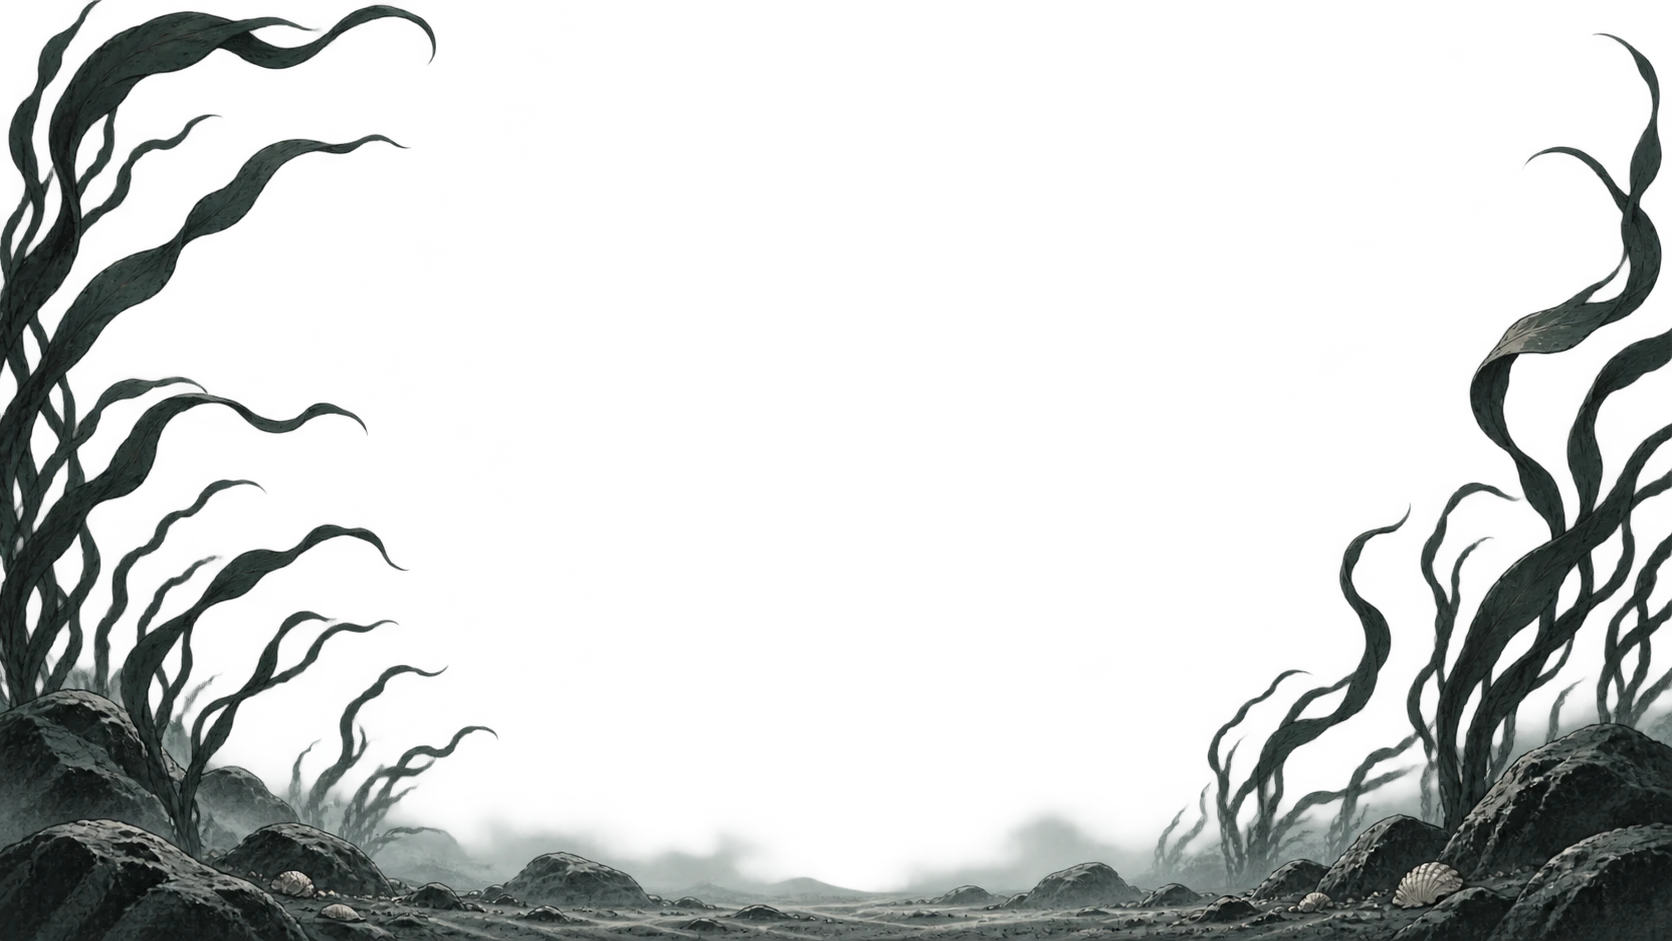
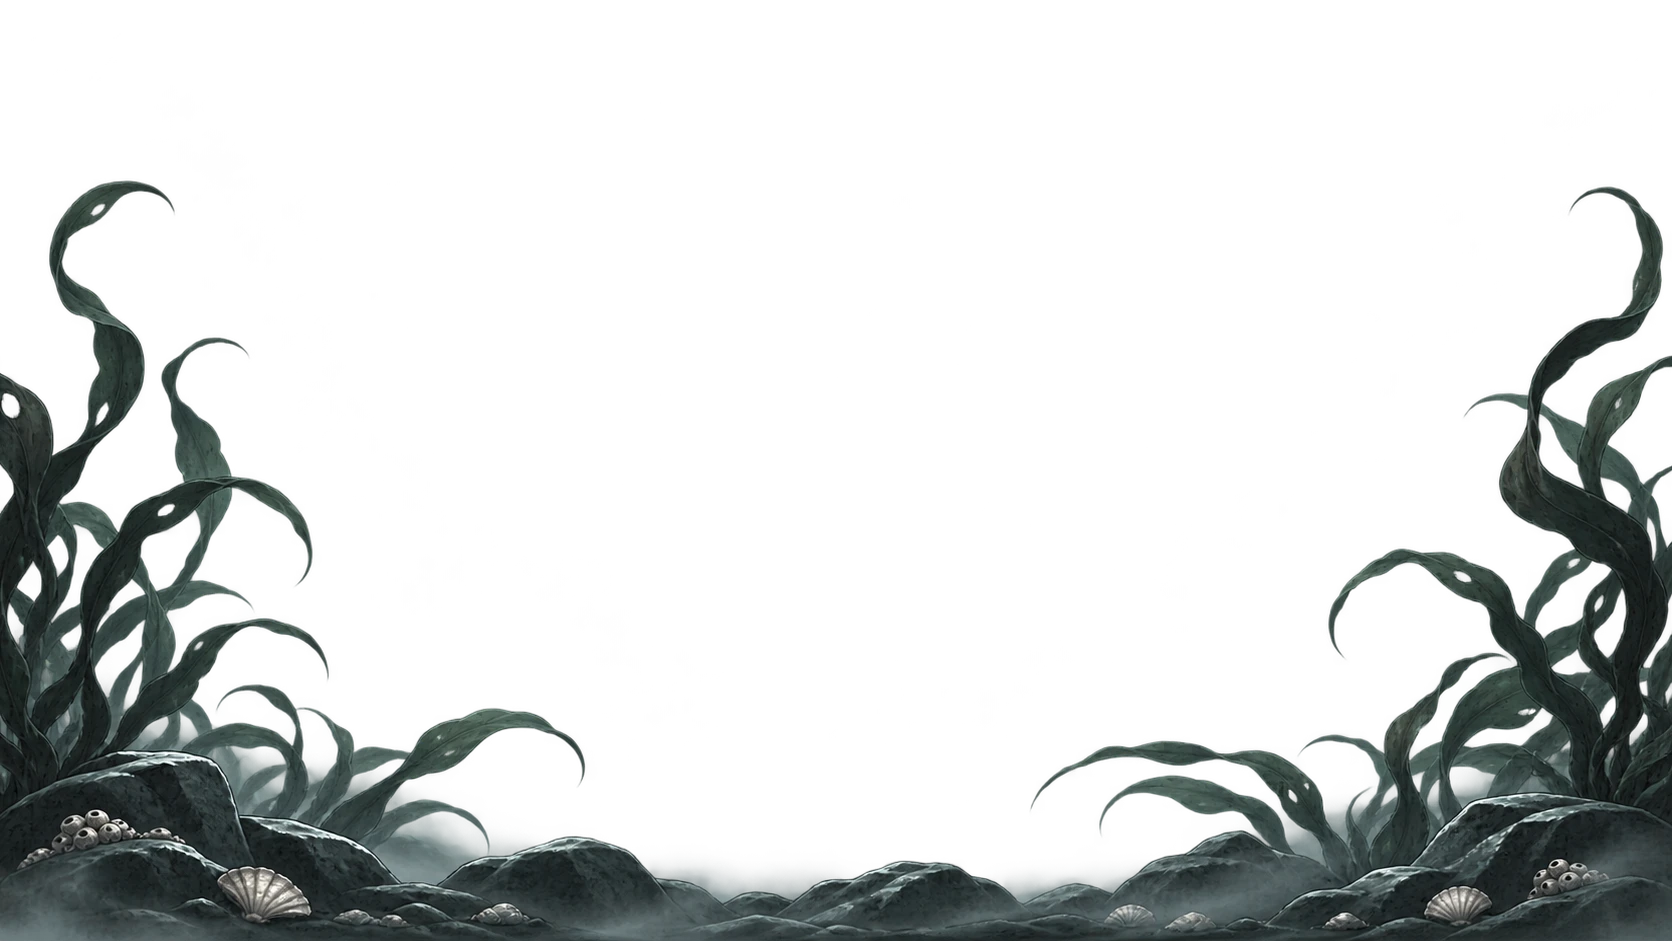
Swap in v2 mid/front background layers; recalibrate tier grading per layer
The v2 foreground kelp carries its own green tint, which hue-rotate() swung to
magenta/violet/red; it is now desaturated before the cast in Undertow,
Maelstrom and Abyssal. Brightness re-solved per layer against isolated-layer
measurements: all 12 layer/tier combinations within 0.2% of target.

Claude-Session: https://claude.ai/code/session_016UNRkeh3HLC3HuGtgN5Ain

diff --git a/frontend/src/style.css b/frontend/src/style.css
@@ -63,24 +63,26 @@ button:disabled { cursor: not-allowed; opacity: .45; filter: grayscale(.5); }
    medium, front subtle); reels, UI and characters are outside .background-scene.
    The art is ~90% greyscale and hue-rotate() alone leaves grey untouched, so a
    sepia() step first gives the greys a hue for hue-rotate() to swing to the target
-   cast (the same technique as the Abyssal reference preset). CSS filters only
+   cast (the same technique as the Abyssal reference preset). The foreground
+   kelp has its own green tint, so it is desaturated first in those tiers; otherwise
+   hue-rotate() swings that green to magenta/violet/red instead of the cast. CSS filters only
    approximate a LUT; for exact colour matching use per-tier LUTs/shaders. */
 .tier-riptide .bg-far   { filter: sepia(14%) saturate(115%) brightness(0.97); }
-.tier-riptide .bg-mid   { filter: sepia(10%) saturate(115%) brightness(0.987); }
-.tier-riptide .bg-front { filter: sepia(6%) saturate(115%) brightness(0.977); }
+.tier-riptide .bg-mid   { filter: sepia(10%) saturate(115%) brightness(0.979); }
+.tier-riptide .bg-front { filter: sepia(6%) saturate(115%) brightness(0.999); }
 
-.tier-undertow .bg-far   { filter: sepia(40%) hue-rotate(175deg) saturate(120%) brightness(0.8) contrast(1.08); }
-.tier-undertow .bg-mid   { filter: sepia(28%) hue-rotate(175deg) saturate(110%) brightness(0.896) contrast(1.08); }
-.tier-undertow .bg-front { filter: sepia(14%) hue-rotate(175deg) saturate(100%) brightness(0.91) contrast(1.08); }
+.tier-undertow .bg-far   { filter: sepia(40%) hue-rotate(175deg) saturate(120%) brightness(0.815) contrast(1.08); }
+.tier-undertow .bg-mid   { filter: sepia(28%) hue-rotate(175deg) saturate(110%) brightness(0.862) contrast(1.08); }
+.tier-undertow .bg-front { filter: grayscale(100%) sepia(14%) hue-rotate(175deg) saturate(100%) brightness(0.941) contrast(1.08); }
 
-.tier-maelstrom .bg-far   { filter: sepia(48%) hue-rotate(125deg) saturate(135%) brightness(0.734); }
-.tier-maelstrom .bg-mid   { filter: sepia(34%) hue-rotate(125deg) saturate(120%) brightness(0.745); }
-.tier-maelstrom .bg-front { filter: sepia(18%) hue-rotate(125deg) saturate(110%) brightness(0.737); }
+.tier-maelstrom .bg-far   { filter: sepia(48%) hue-rotate(125deg) saturate(135%) brightness(0.736); }
+.tier-maelstrom .bg-mid   { filter: sepia(34%) hue-rotate(125deg) saturate(120%) brightness(0.748); }
+.tier-maelstrom .bg-front { filter: grayscale(100%) sepia(18%) hue-rotate(125deg) saturate(110%) brightness(0.768); }
 .tier-maelstrom .environment-fog { opacity: .75; }
 
-.tier-abyssal .bg-far   { filter: sepia(50%) hue-rotate(225deg) saturate(150%) brightness(0.615); }
-.tier-abyssal .bg-mid   { filter: sepia(36%) hue-rotate(225deg) saturate(130%) brightness(0.648); }
-.tier-abyssal .bg-front { filter: sepia(18%) hue-rotate(225deg) saturate(115%) brightness(0.62); }
+.tier-abyssal .bg-far   { filter: sepia(50%) hue-rotate(225deg) saturate(150%) brightness(0.619); }
+.tier-abyssal .bg-mid   { filter: sepia(36%) hue-rotate(225deg) saturate(130%) brightness(0.638); }
+.tier-abyssal .bg-front { filter: grayscale(100%) sepia(18%) hue-rotate(225deg) saturate(115%) brightness(0.664); }
 .tier-abyssal .particle { filter: drop-shadow(0 0 6px #a26ff0) drop-shadow(0 0 12px #a26ff0); }
 .tier-abyssal .bubble { border-color: rgba(226, 210, 255, .9); }
 
